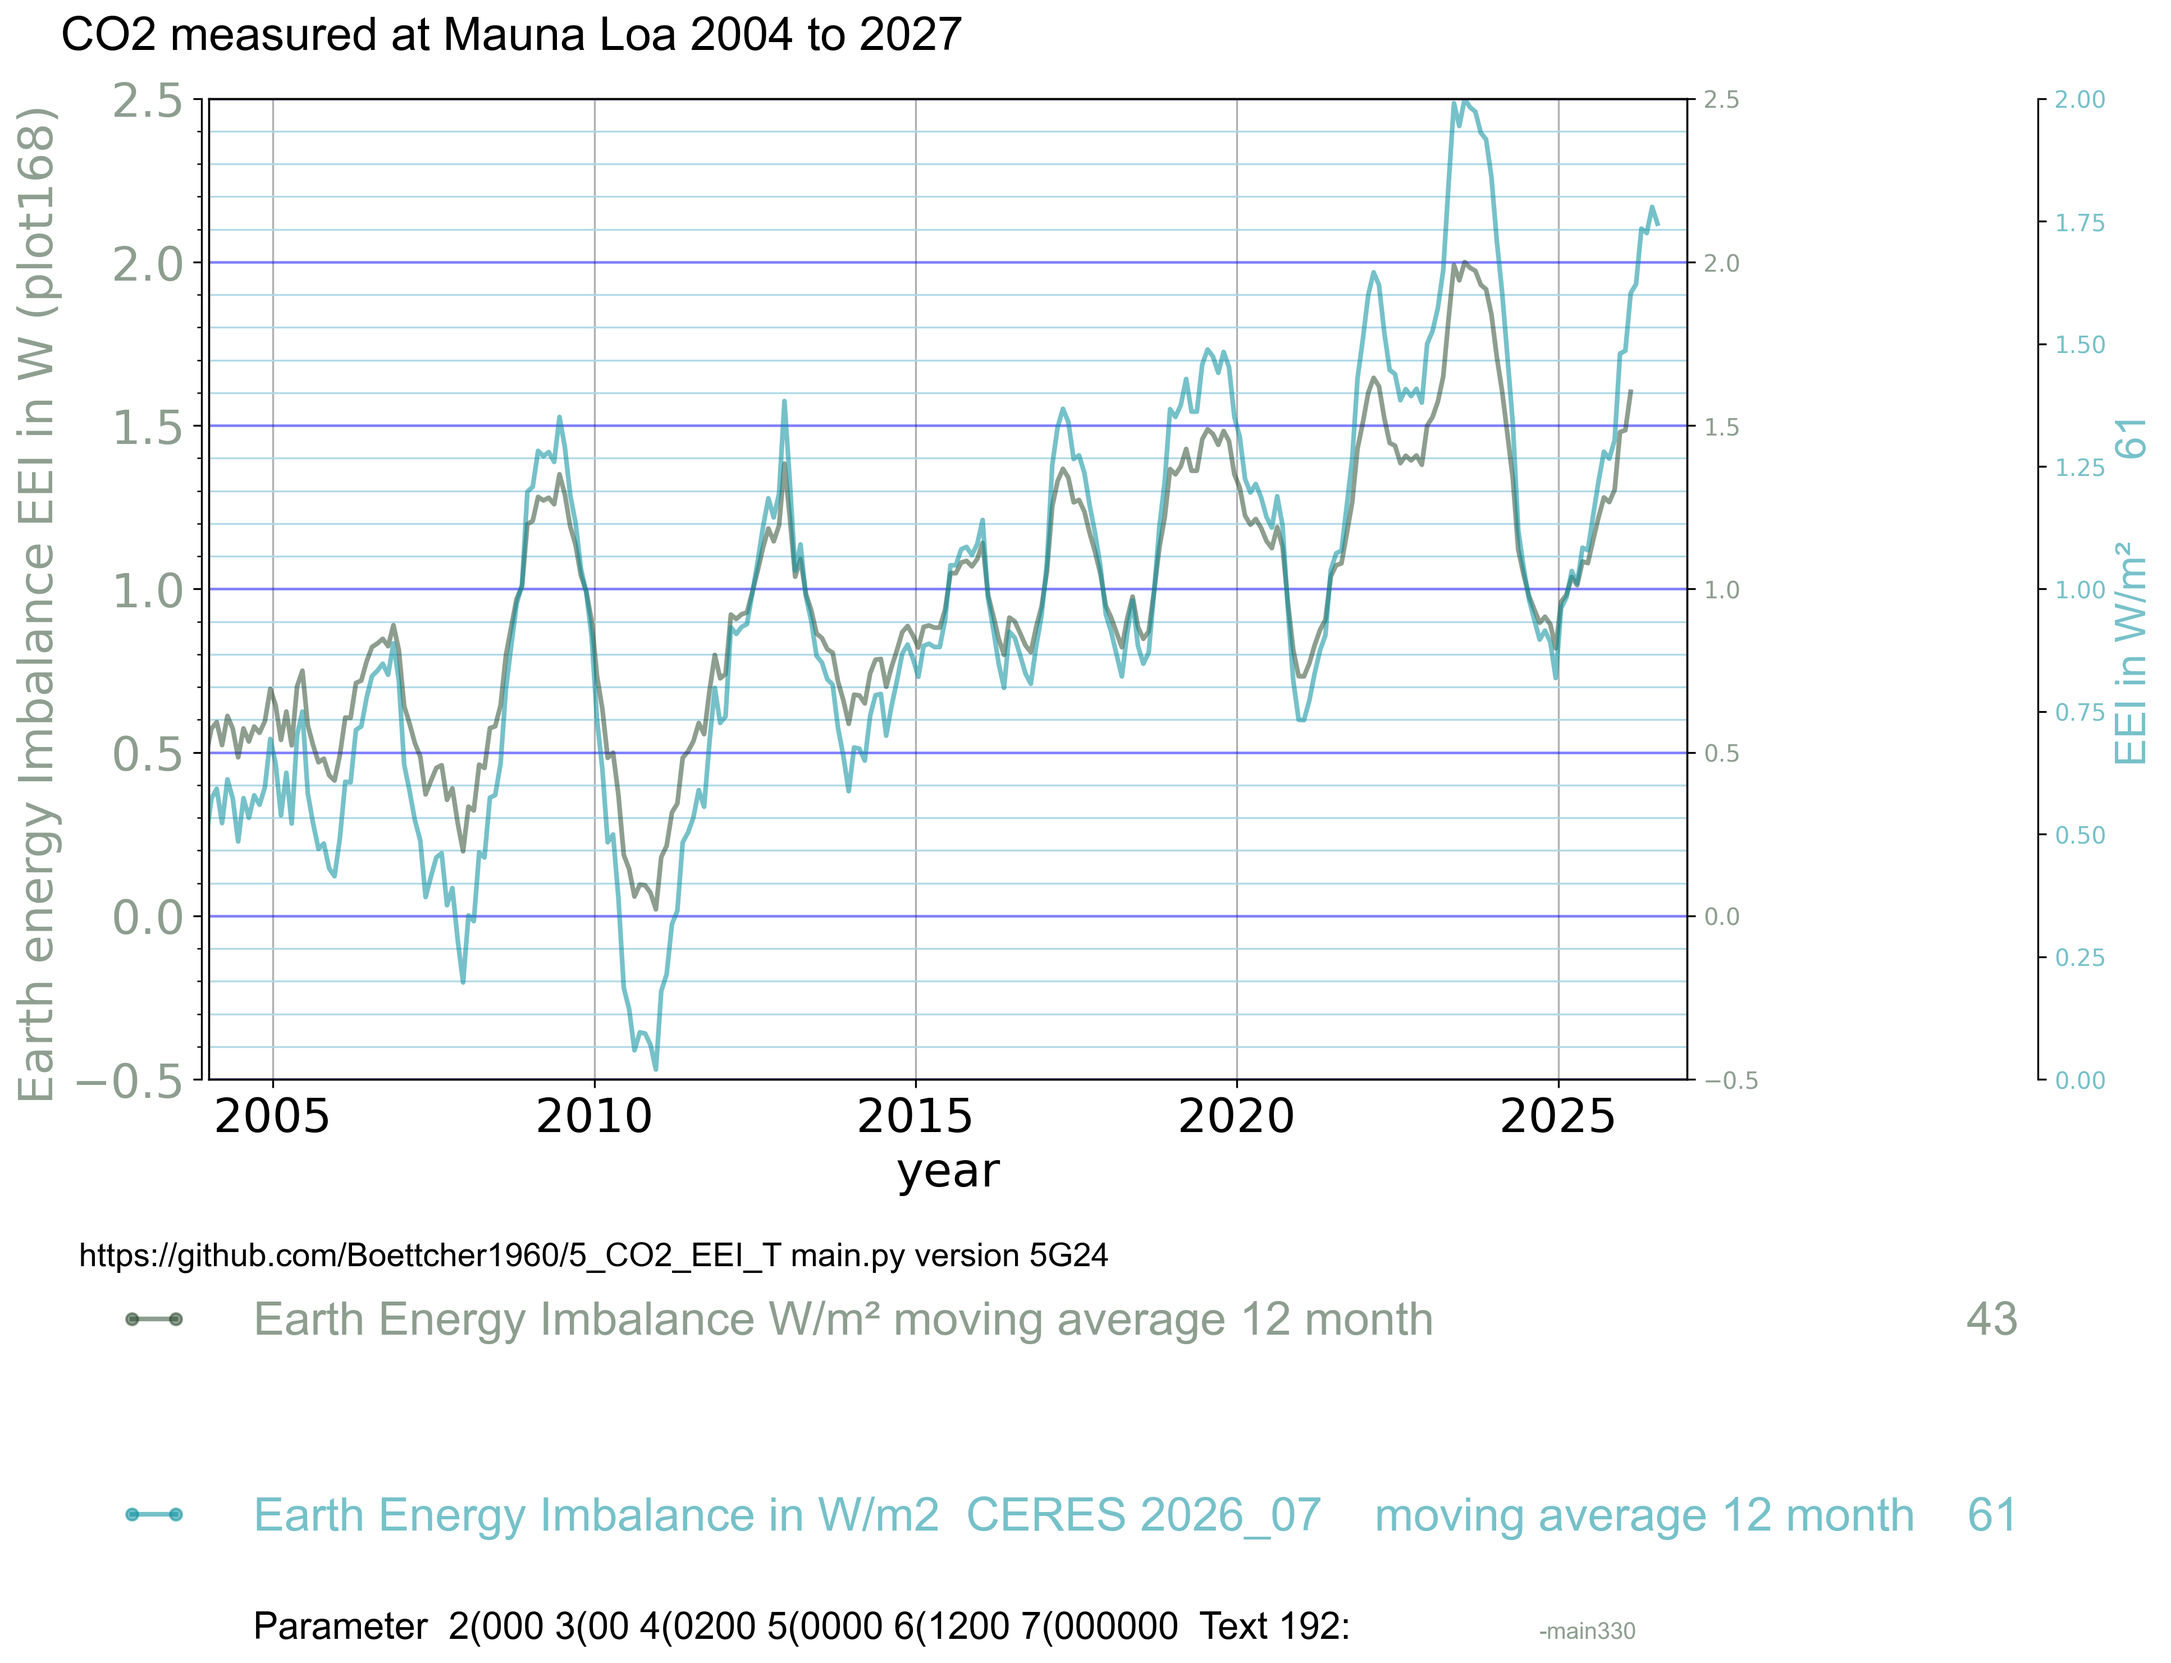
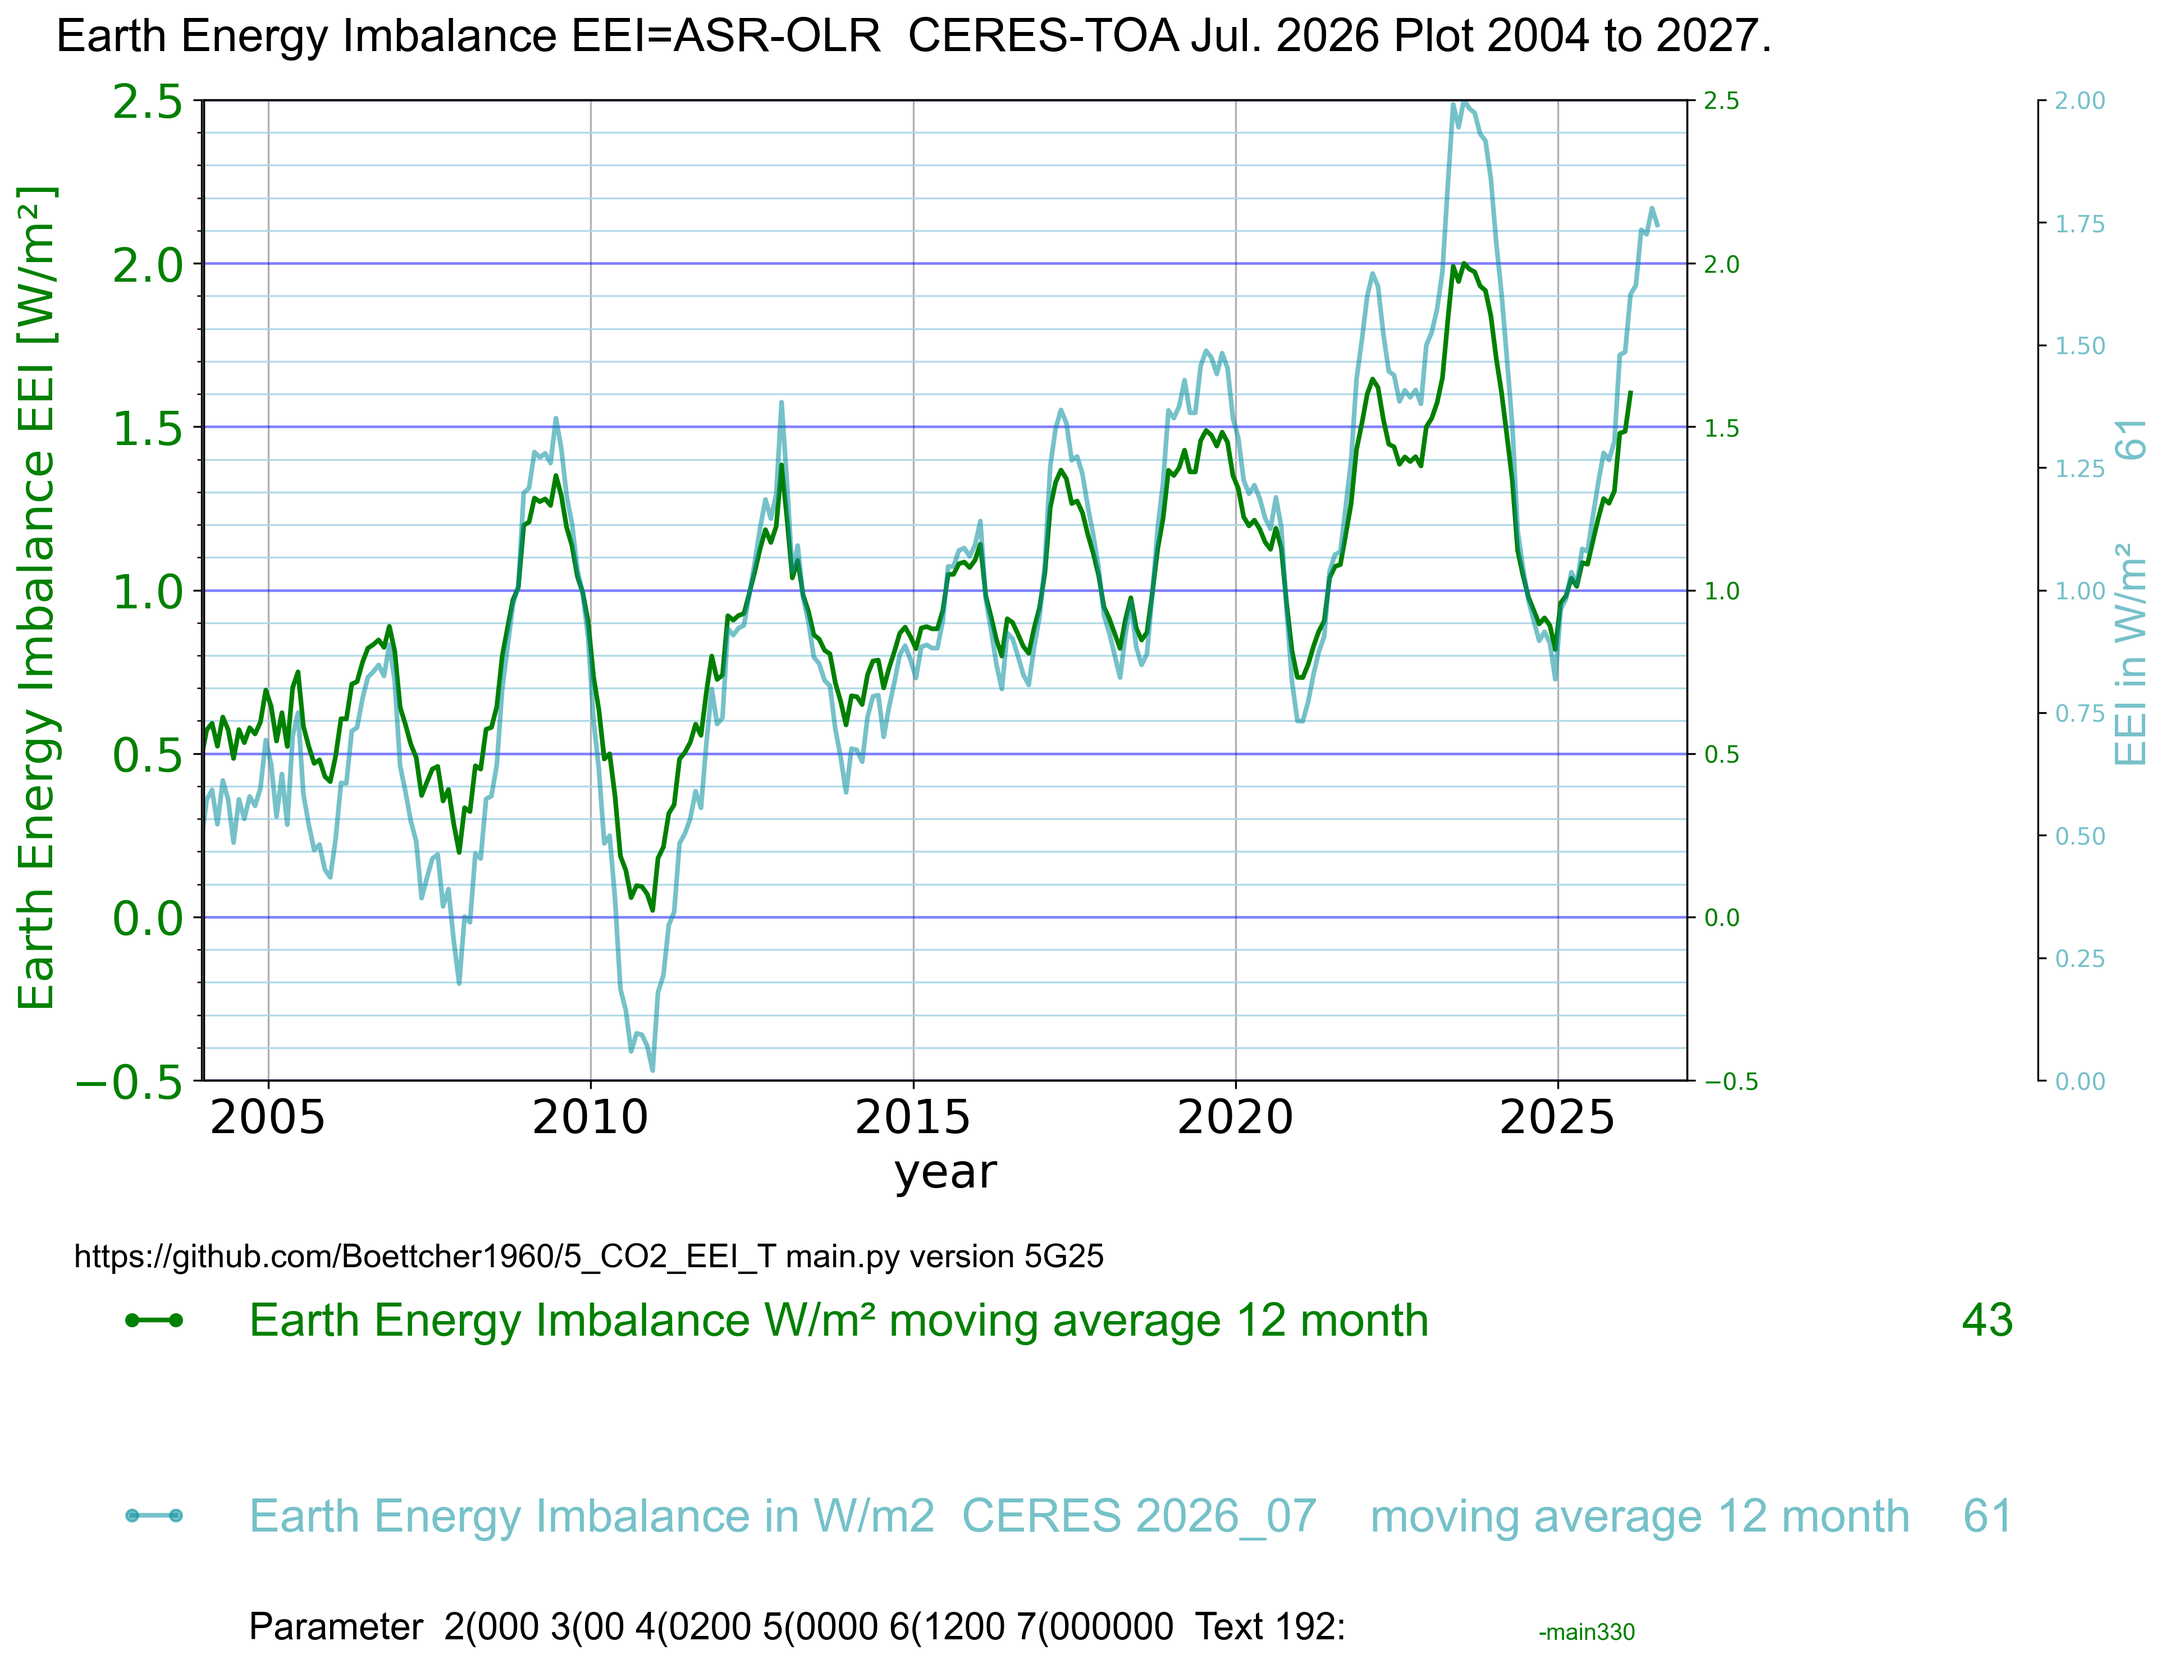
5g25

diff --git a/text.py b/text.py
@@ -1,5 +1,5 @@
 # text_annotations.py
-# version 5b85
+# version 5g25
 # row 1  ,    print line 1 below the plot ,     text_1_print_line() ,              line  21
 # row 0  ,    print line 0 above the plot ,     text_2_print_head_line() ,         line  40
 # text_1_print_line(fig, ax1, filename, v, header_parameter, tr1y): line 15
@@ -61,6 +61,10 @@ def text_2_print_head_line(ax1, x_anf, x_end, yl_mode):
         header = f"Earth Energy Imbalance EEI=ASR-OLR  CERES-TOA Jul. 2026 Plot {x_anf} to {x_end}."
         ax1.text(-0.1, 1.05, header, color="black", fontname="Arial", fontsize=trs,
                 transform=ax1.transAxes)
+    elif plot43_eei_12month == 2:
+                header = f"Earth Energy Imbalance EEI=ASR-OLR  CERES-TOA Jul. 2026 Plot {x_anf} to {x_end}."
+                ax1.text(-0.1, 1.05, header, color="black", fontname="Arial", fontsize=trs,
+                        transform=ax1.transAxes)
     elif plot45_OLR == 2:
         header = f"Outgoing Longwave Radiation OLR in   W/m²  Plot {x_anf} to {x_end}."
         ax1.text(-0.1, 1.05, header, color=c45, fontname="Arial", fontsize=trs,

diff --git a/plotting.py b/plotting.py
@@ -171,9 +171,9 @@ def plot_1_axe(ax1):
 
     elif plot43_eei_12month == 2:  # 43.5 y axe left 
         # ax42.spines.right.set_position(("outward", outward_right))
-        ax1.spines.left.set_position(("outward", 3))
+        ax1.spines.left.set_position(("outward", 1))
         ax1.set_ylim(y_43min, y_43max)
-        ax1.set_ylabel("Earth energy Imbalance EEI in W (plot168)  ", color=c43, fontsize=20)
+        ax1.set_ylabel("Earth Energy Imbalance EEI   [W/m²] ", color=c43, fontsize=20)
         ax1.tick_params(axis="y", labelcolor=c43, labelsize=20)
         y_mayor_ticks = 0.500 
         y_minor_ticks = 0.100
@@ -801,7 +801,6 @@ def plot_9_create_all_plots(ax1, data):
         ax43.set_ylim(y_43min, y_43max)
         if print_debug > 19:
            print(f"plot_231: ax43 43.4 ={plot43_eei_12month}")
-        # plot8_right_y_axe_for_eei_43  plot43_eei_12month   Earth Energy Imbalance     ,  line  460
         if plot43_eei_12month > 2:
            plot8_right_y_axe_for_eei_43( ax43 , 0 ) # 43.4 line 460
     if part44_ceres_eei > 0 and 'ceres_custom' in data:

diff --git a/main.py b/main.py
@@ -1,5 +1,5 @@
 # main.py
-v = "5G24" # Annual Global Offset: 0.88°C must be added to a yearly ERA5
+v = "5G25" # replot https://x.com/Pat_Schmidt_89/status/2110140450161987999/photo/1
 # https://github.com/Boettcher1960/5_CO2_EEI_T
 # ocean stratification https://bsky.app/profile/thomas-boettcher.bsky.social/post/3mj7zx7fzsc26
 # https://drtomharris.substack.com/p/the-great-decoupling-how-ocean-stratification

diff --git a/config.py b/config.py
@@ -82,7 +82,7 @@ c34 = "#942296C5"
 c41 = "#289C1684"
 c42 = "purple"
 c42 = "#13DF2F84"
-c43 = "#23442884"
+c43 = "green" # "#70A915B1"
 c44 = "blue"
 c45 = "#DE2B1ACC"
 c46 = "#481725DC"
